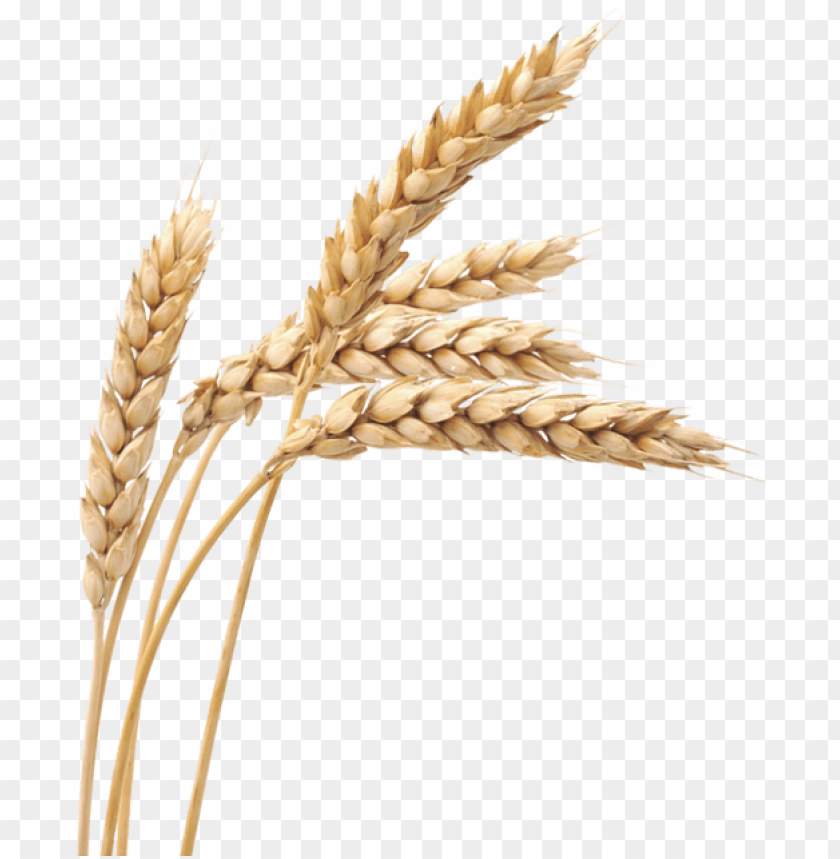
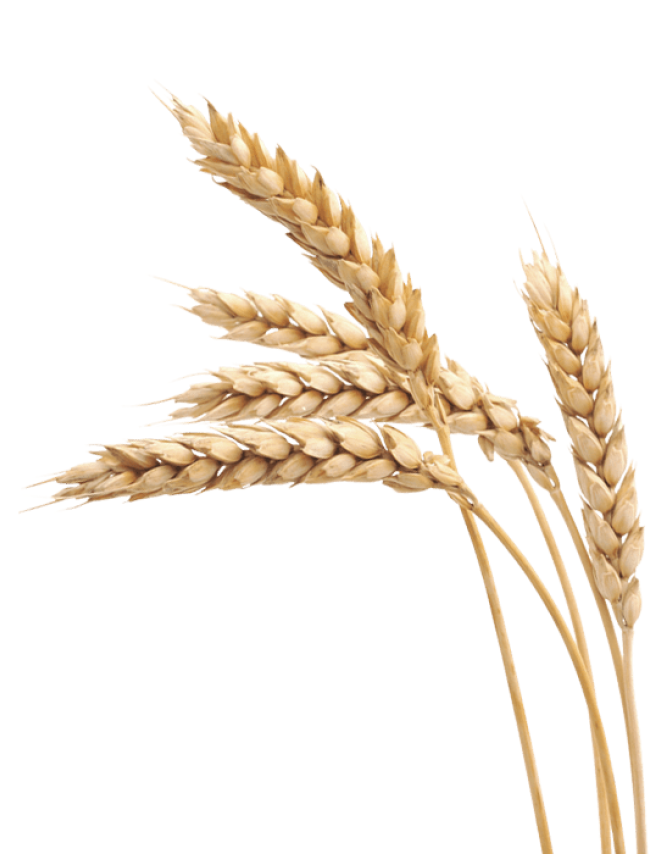
adjustments intro

Changed region(s): [[0.0614, 0.0304, 1.0, 1.0]]

diff --git a/CSS/index.css b/CSS/index.css
@@ -41,12 +41,16 @@
 }
 
 .intro__title {
-  margin: 0 0 1em 0;
+  margin: 0 0 2em 0;
 }
 
 .intro__text {
   padding: 0em 0 0em 10%;
-  width: 45%;
+  /* width: 65%; */
+  float: right;
+  width: 950px;
+  /* height: 150px; */
+  shape-outside: url("../IMAGES/Wheat/wheat.png");
 }
 
 .intro__text--parapraph+.intro__text--parapraph {

diff --git a/HTML/index.html b/HTML/index.html
@@ -214,7 +214,7 @@
       </section>
 
       <section class="intro">
-        <div class="row intro__content">
+        <div class="intro__content">
           <div class="intro__text">
             <h2 class="intro__title">Nichts ist uns zu kompliziert</h2>
             <p class="intro__text--parapraph intro-1">
